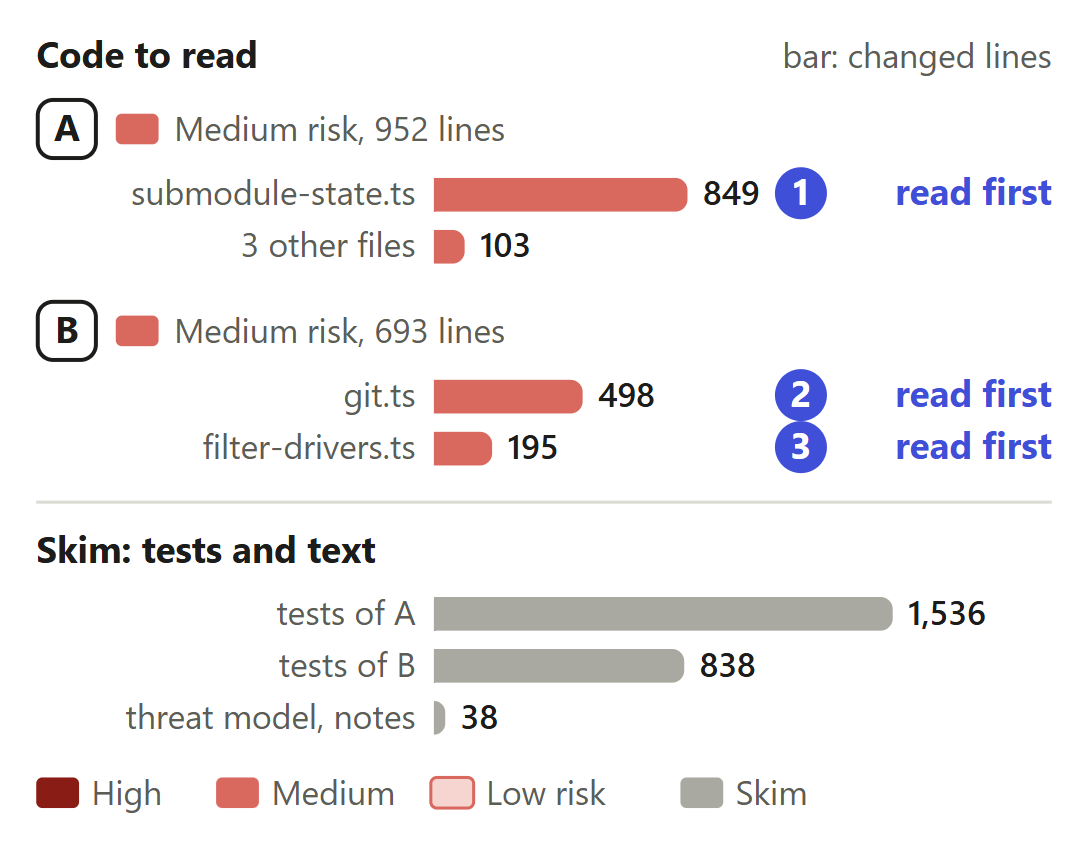
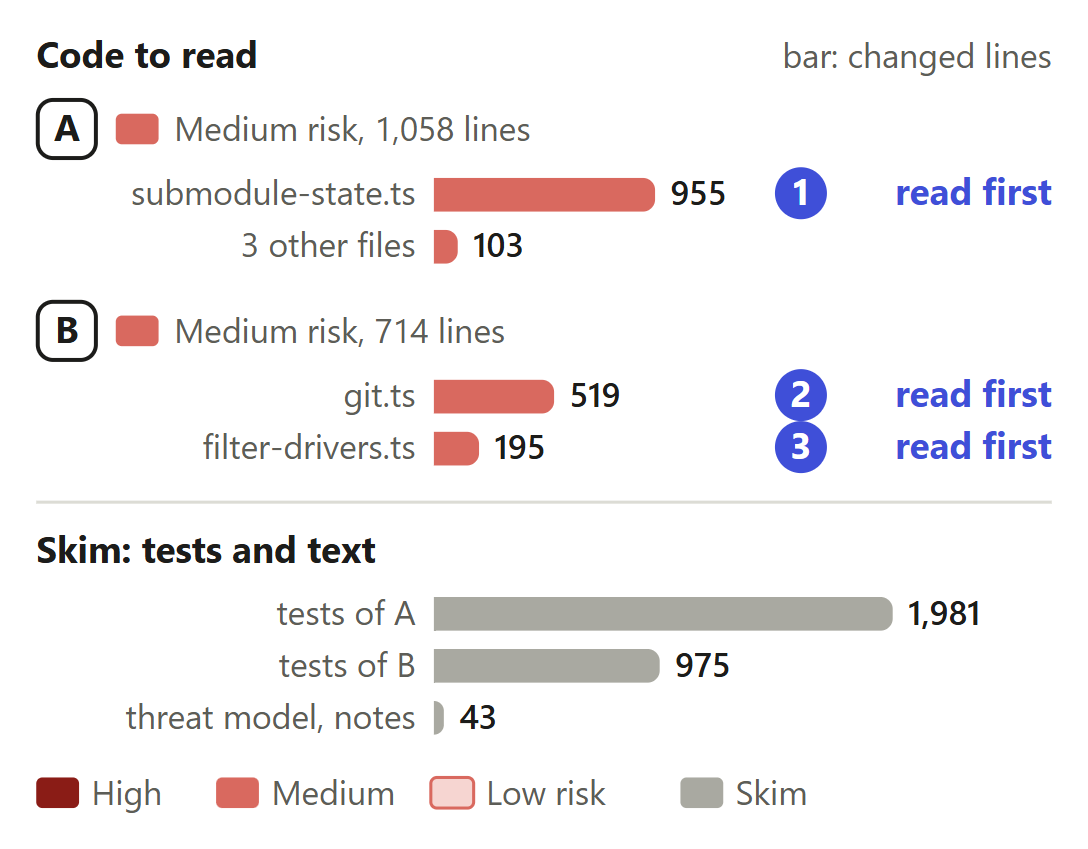
Decision report for #978 (JeanFrancoisGagne/git-calls-run-no-repository-program)
git-calls-run-no-repository-program/ holds what the pull request's callout links: README.md, the report in GitHub Markdown; report.html, the self-standing page; and 2 image(s).

diff --git a/git-calls-run-no-repository-program/report.html b/git-calls-run-no-repository-program/report.html
@@ -319,9 +319,9 @@ td .src { display: block; font-size: 13px; color: var(--muted); margin-top: 3px;
   <ol><li><svg class="fl" viewBox="0 0 14 16" aria-hidden="true"><path d="M2 1v14M2 1h10l-3 4l3 4h-10"/></svg>A file only its repository&#x27;s driver maps is compared as it is on disk.</li></ol></div>
   <p class="rec"><b>We recommend:</b> approve it: at main five calls started a program a repository&#x27;s config names, here none does; the person&#x27;s drivers run, and a call starts the Gits main&#x27;s starts, plus three where the checkout records submodules.</p>
   <div class="big">
-    <div><b class="w">4,057 lines</b><span>in 23 files. 1,645 ship, 2,412 are tests and text.</span></div><div><b class="w">Maintainer approves review</b><span>It changes what Rerail&#x27;s own Git calls start.</span></div><div><b class="w">Waits on nothing</b><span>It stands on main alone.</span></div><div><b class="w">4 not verified</b><span><a href="#gaps">Part 8</a> lists each.</span></div>
+    <div><b class="w">4,771 lines</b><span>in 24 files. 1,772 ship, 2,999 are tests and text.</span></div><div><b class="w">Maintainer approves review</b><span>It changes what Rerail&#x27;s own Git calls start.</span></div><div><b class="w">Waits on nothing</b><span>It stands on main alone.</span></div><div><b class="w">4 not verified</b><span><a href="#gaps">Part 8</a> lists each.</span></div>
   </div>
-  <p class="state">Read from <a href="https://github.com/neralabs/rerail/pull/978">GitHub</a> on 21 November 2026, at head f1a6d791b.</p>
+  <p class="state">Read from <a href="https://github.com/neralabs/rerail/pull/978">GitHub</a> on 21 November 2026, at head bbcdd72d8.</p>
 </header>
 <section id="intent"><h2>2. Intent, and the gap</h2>
 <figure class="fg flat"><table class="tc it"><colgroup><col style="width:15%"><col style="width:25%"><col style="width:29%"><col style="width:31%"></colgroup><thead><tr><th>Change</th><th>Intended</th><th>Found</th><th>Now</th></tr></thead><tbody><tr><td class="k"><span class="lb">A</span><b>Submodule programs</b></td><td class="in" data-l="Intended">Rerail&#x27;s Git calls keep a repository&#x27;s config from running programs: &quot;no fsmonitor, no hooks&quot;. <span class="tagx">code comment</span></td><td class="fo" data-l="Found">A checked-out submodule&#x27;s own filter ran through Git&#x27;s status in it: 3 runs from one audit and one scan diff. <span class="tagx">stand-in program</span></td><td class="now" data-l="Now"><b>Closes the gap</b> and keeps Git out of submodules, asking each through the same guard.</td></tr><tr><td class="k"><span class="lb">B</span><b>Repository filters</b></td><td class="in" data-l="Intended">Rerail&#x27;s Git calls keep a repository&#x27;s config from running programs: &quot;no fsmonitor, no hooks&quot;. <span class="tagx">code comment</span></td><td class="fo" data-l="Found">A tracked file rewritten at the same size ran the repository&#x27;s clean filter: 5 runs from an audit, a scan and a walk. <span class="tagx">stand-in program</span></td><td class="now" data-l="Now"><svg class="fl" viewBox="0 0 14 16" aria-hidden="true"><path d="M2 1v14M2 1h10l-3 4l3 4h-10"/></svg><b>Closes the gap, changes answer 1.</b> and sets each driver only a repository defines to no program; the person&#x27;s own drivers still run.</td></tr></tbody></table>
@@ -329,15 +329,15 @@ td .src { display: block; font-size: 13px; color: var(--muted); margin-top: 3px;
 <details class="ev"><summary>Sources at main, and causes</summary><div class="table-wrap"><table class="tc tight"><colgroup><col style="width:16%"><col style="width:42%"><col style="width:42%"></colgroup><thead><tr><th>Change</th><th>Where main states the intent</th><th>The cause, and what was measured</th></tr></thead><tbody><tr><td class="k">A. Submodule programs</td><td data-l="Where main states the intent"><code>src/engine/git.ts</code> at main, above <code>SAFE_CONFIG</code>: &quot;A repository&#x27;s own config can&#x27;t run programs through Rerail&#x27;s git calls: no fsmonitor, no hooks.&quot;</td><td data-l="The cause, and what was measured">Git&#x27;s diff starts <code>git status --porcelain=2</code> in each checked-out submodule to tell whether it changed. That status reads the submodule&#x27;s own config with none of the call&#x27;s options on it, so its filter ran; a Git folder placed at a registered submodule&#x27;s path ran its program the same way.</td></tr><tr><td class="k">B. Repository filters</td><td data-l="Where main states the intent"><code>src/engine/git.ts</code> at main, above <code>SAFE_CONFIG</code>: &quot;A repository&#x27;s own config can&#x27;t run programs through Rerail&#x27;s git calls: no fsmonitor, no hooks.&quot;</td><td data-l="The cause, and what was measured"><code>git diff --name-only</code> and <code>git ls-files --modified</code> compare a file whose size matches its index entry and whose stat does not through <code>filter.&lt;name&gt;.clean</code>. The calls set no filter key, so the program the repository&#x27;s config names ran as the person.</td></tr></tbody></table></div></details>
 </section><section id="look"><h2>3. Where to look</h2>
 <p class="sub">Minutes are our estimate.</p>
-<div class="duo"><figure class="fg"><svg viewBox="0 0 340 262" role="img" aria-label="The changed files as bars sized by changed lines, grouped by change and coloured by risk. Code to read: A, Submodules asked through the guard, medium risk, 952 lines; B, Drivers set for each call, medium risk, 693 lines. Read first: submodule-state.ts, git.ts, filter-drivers.ts. To skim: 2,374 lines of tests and 38 lines of the threat model and a release note." class="dg map"><text x="4" y="14" class="t b">Code to read</text><text x="336" y="14" text-anchor="end" class="t s">bar: changed lines</text><rect x="4.5" y="24.5" width="19" height="19" rx="5" class="lt"/><text x="14" y="38" text-anchor="middle" class="t b">A</text><rect x="30" y="29" width="14" height="10" rx="2" class="rk med"/><text x="49" y="38" class="t s">Medium risk, 952 lines</text><text x="128" y="59" text-anchor="end" class="t s">submodule-state.ts</text><g><title>submodule-state.ts: 849 changed lines, medium risk</title><path d="M134 50h78.9102a4 4 0 0 1 4 4v3a4 4 0 0 1 -4 4h-78.9102z" class="rk med"/></g><text x="221.91" y="59" class="t n">849</text><text x="336" y="59" text-anchor="end" class="t b acc">read first</text><circle cx="254" cy="55" r="8.5" class="nc"/><text x="254" y="59" text-anchor="middle" class="t b inv">1</text><text x="128" y="76" text-anchor="end" class="t s">3 other files</text><g><title>3 other files: 103 changed lines, medium risk</title><path d="M134 67h6.05859a4 4 0 0 1 4 4v3a4 4 0 0 1 -4 4h-6.05859z" class="rk med"/></g><text x="149.059" y="76" class="t n">103</text><rect x="4.5" y="90.5" width="19" height="19" rx="5" class="lt"/><text x="14" y="104" text-anchor="middle" class="t b">B</text><rect x="30" y="95" width="14" height="10" rx="2" class="rk med"/><text x="49" y="104" class="t s">Medium risk, 693 lines</text><text x="128" y="125" text-anchor="end" class="t s">git.ts</text><g><title>git.ts: 498 changed lines, medium risk</title><path d="M134 116h44.6328a4 4 0 0 1 4 4v3a4 4 0 0 1 -4 4h-44.6328z" class="rk med"/></g><text x="187.633" y="125" class="t n">498</text><text x="336" y="125" text-anchor="end" class="t b acc">read first</text><circle cx="254" cy="121" r="8.5" class="nc"/><text x="254" y="125" text-anchor="middle" class="t b inv">2</text><text x="128" y="142" text-anchor="end" class="t s">filter-drivers.ts</text><g><title>filter-drivers.ts: 195 changed lines, medium risk</title><path d="M134 133h15.043a4 4 0 0 1 4 4v3a4 4 0 0 1 -4 4h-15.043z" class="rk med"/></g><text x="158.043" y="142" class="t n">195</text><text x="336" y="142" text-anchor="end" class="t b acc">read first</text><circle cx="254" cy="138" r="8.5" class="nc"/><text x="254" y="142" text-anchor="middle" class="t b inv">3</text><line x1="4" y1="156" x2="336" y2="156" class="ar thin"/><text x="4" y="176" class="t b">Skim: tests and text</text><text x="128" y="196" text-anchor="end" class="t s">tests of A</text><g><title>Tests of change A: 1,536 changed lines, skim</title><path d="M134 187h146a4 4 0 0 1 4 4v3a4 4 0 0 1 -4 4h-146z" class="rk skim"/></g><text x="289" y="196" class="t n">1,536</text><text x="128" y="213" text-anchor="end" class="t s">tests of B</text><g><title>Tests of change B: 838 changed lines, skim</title><path d="M134 204h77.8359a4 4 0 0 1 4 4v3a4 4 0 0 1 -4 4h-77.8359z" class="rk skim"/></g><text x="220.836" y="213" class="t n">838</text><text x="128" y="230" text-anchor="end" class="t s">threat model, notes</text><g><title>The threat model and a release note: 38 lines</title><path d="M134 221h0a3.71094 3.71094 0 0 1 3.71094 3.71094v3.57812a3.71094 3.71094 0 0 1 -3.71094 3.71094h-0z" class="rk skim"/></g><text x="142.711" y="230" class="t n">38</text><rect x="4" y="246" width="14" height="10" rx="2" class="rk high"/><text x="22" y="255" class="t s">High</text><rect x="62.8" y="246" width="14" height="10" rx="2" class="rk med"/><text x="80.8" y="255" class="t s">Medium</text><rect x="133" y="246" width="14" height="10" rx="2" class="rk low"/><text x="151" y="255" class="t s">Low risk</text><rect x="214.6" y="246" width="14" height="10" rx="2" class="rk skim"/><text x="232.6" y="255" class="t s">Skim</text></svg>
+<div class="duo"><figure class="fg"><svg viewBox="0 0 340 262" role="img" aria-label="The changed files as bars sized by changed lines, grouped by change and coloured by risk. Code to read: A, Submodules asked through the guard, medium risk, 1,058 lines; B, Drivers set for each call, medium risk, 714 lines. Read first: submodule-state.ts, git.ts, filter-drivers.ts. To skim: 2,956 lines of tests and 43 lines of the threat model and a release note." class="dg map"><text x="4" y="14" class="t b">Code to read</text><text x="336" y="14" text-anchor="end" class="t s">bar: changed lines</text><rect x="4.5" y="24.5" width="19" height="19" rx="5" class="lt"/><text x="14" y="38" text-anchor="middle" class="t b">A</text><rect x="30" y="29" width="14" height="10" rx="2" class="rk med"/><text x="49" y="38" class="t s">Medium risk, 1,058 lines</text><text x="128" y="59" text-anchor="end" class="t s">submodule-state.ts</text><g><title>submodule-state.ts: 955 changed lines, medium risk</title><path d="M134 50h68.312a4 4 0 0 1 4 4v3a4 4 0 0 1 -4 4h-68.312z" class="rk med"/></g><text x="211.312" y="59" class="t n">955</text><text x="336" y="59" text-anchor="end" class="t b acc">read first</text><circle cx="254" cy="55" r="8.5" class="nc"/><text x="254" y="59" text-anchor="middle" class="t b inv">1</text><text x="128" y="76" text-anchor="end" class="t s">3 other files</text><g><title>3 other files: 103 changed lines, medium risk</title><path d="M134 67h3.79909a4 4 0 0 1 4 4v3a4 4 0 0 1 -4 4h-3.79909z" class="rk med"/></g><text x="146.799" y="76" class="t n">103</text><rect x="4.5" y="90.5" width="19" height="19" rx="5" class="lt"/><text x="14" y="104" text-anchor="middle" class="t b">B</text><rect x="30" y="95" width="14" height="10" rx="2" class="rk med"/><text x="49" y="104" class="t s">Medium risk, 714 lines</text><text x="128" y="125" text-anchor="end" class="t s">git.ts</text><g><title>git.ts: 519 changed lines, medium risk</title><path d="M134 116h35.2983a4 4 0 0 1 4 4v3a4 4 0 0 1 -4 4h-35.2983z" class="rk med"/></g><text x="178.298" y="125" class="t n">519</text><text x="336" y="125" text-anchor="end" class="t b acc">read first</text><circle cx="254" cy="121" r="8.5" class="nc"/><text x="254" y="125" text-anchor="middle" class="t b inv">2</text><text x="128" y="142" text-anchor="end" class="t s">filter-drivers.ts</text><g><title>filter-drivers.ts: 195 changed lines, medium risk</title><path d="M134 133h10.7653a4 4 0 0 1 4 4v3a4 4 0 0 1 -4 4h-10.7653z" class="rk med"/></g><text x="153.765" y="142" class="t n">195</text><text x="336" y="142" text-anchor="end" class="t b acc">read first</text><circle cx="254" cy="138" r="8.5" class="nc"/><text x="254" y="142" text-anchor="middle" class="t b inv">3</text><line x1="4" y1="156" x2="336" y2="156" class="ar thin"/><text x="4" y="176" class="t b">Skim: tests and text</text><text x="128" y="196" text-anchor="end" class="t s">tests of A</text><g><title>Tests of change A: 1,981 changed lines, skim</title><path d="M134 187h146a4 4 0 0 1 4 4v3a4 4 0 0 1 -4 4h-146z" class="rk skim"/></g><text x="289" y="196" class="t n">1,981</text><text x="128" y="213" text-anchor="end" class="t s">tests of B</text><g><title>Tests of change B: 975 changed lines, skim</title><path d="M134 204h69.8264a4 4 0 0 1 4 4v3a4 4 0 0 1 -4 4h-69.8264z" class="rk skim"/></g><text x="212.826" y="213" class="t n">975</text><text x="128" y="230" text-anchor="end" class="t s">threat model, notes</text><g><title>The threat model and a release note: 43 lines</title><path d="M134 221h0a3.25593 3.25593 0 0 1 3.25593 3.25593v4.48814a3.25593 3.25593 0 0 1 -3.25593 3.25593h-0z" class="rk skim"/></g><text x="142.256" y="230" class="t n">43</text><rect x="4" y="246" width="14" height="10" rx="2" class="rk high"/><text x="22" y="255" class="t s">High</text><rect x="62.8" y="246" width="14" height="10" rx="2" class="rk med"/><text x="80.8" y="255" class="t s">Medium</text><rect x="133" y="246" width="14" height="10" rx="2" class="rk low"/><text x="151" y="255" class="t s">Low risk</text><rect x="214.6" y="246" width="14" height="10" rx="2" class="rk skim"/><text x="232.6" y="255" class="t s">Skim</text></svg>
 <figcaption>Most lines are Git&#x27;s submodule rules and the guard around each call.</figcaption></figure>
 <div><ol class="steps"><li class="first"><div><span class="rf">Read first</span><b><code>submodule-state.ts</code>: <code>withChangedSubmodules</code>, <code>submoduleChanged</code>, <code>worktreeIndex</code></b><span class="min">15 min</span><span class="x">Does each diff list the submodules Git&#x27;s own diff lists?</span></div></li><li class="first"><div><span class="rf">Read first</span><b><code>git.ts</code>: <code>runGit</code>, <code>runGitWithoutBlocking</code>, <code>guardedBy</code>, <code>submoduleOpener</code></b><span class="min">15 min</span><span class="x">Can a call that reads worktree files still start a repository&#x27;s driver?</span></div></li><li class="first"><div><span class="rf">Read first</span><b><code>filter-drivers.ts</code>: <code>driverOverrides</code>, <code>worktreeRead</code></b><span class="min">5 min</span><span class="x">Does every driver a repository defines get the person&#x27;s value or none?</span></div></li><li><div><b><code>audit-control.ts</code>, <code>headless-scan.ts</code>, <code>operations.ts</code>: the callers await the diff</b><span class="min">5 min</span></div></li></ol>
 <div class="skim"><i></i><div><span class="rf">Then skim</span><b>Tests and text</b><span class="min">10 min</span><span class="x">The differential cases compare each answer with Git&#x27;s own; the threat model says what the calls keep from a repository&#x27;s config.</span></div></div>
 </div></div>
 </section><section id="grid"><h2>4. Risk against verification</h2>
-<figure class="fg"><svg viewBox="0 0 340 191" role="img" aria-label="The changes by risk, high on top, against six checks. A, Submodules, medium risk: users lose nothing holds with a limit. B, Drivers, medium risk: users lose nothing holds with a limit, Windows 11: no new failure holds with a limit. CI at this head does not hold yet for every change." class="dg grid"><text x="150" y="13" text-anchor="middle" class="t b">1</text><text x="184" y="13" text-anchor="middle" class="t b">2</text><text x="218" y="13" text-anchor="middle" class="t b">3</text><text x="252" y="13" text-anchor="middle" class="t b">4</text><text x="286" y="13" text-anchor="middle" class="t b">5</text><text x="320" y="13" text-anchor="middle" class="t b">6</text><rect x="1" y="20" width="338" height="82" rx="8" class="bx zone"/><rect x="9" y="25" width="14" height="10" rx="2" class="rk med"/><text x="28" y="34" class="t s b">Medium risk</text><rect x="8.5" y="42.5" width="19" height="19" rx="5" class="lt"/><text x="18" y="56" text-anchor="middle" class="t b">A</text><text x="34" y="56" class="t b">Submodules</text><g><title>Submodules, fails without the fix: At main a checked-out submodule&#x27;s own filter ran 3 times and a placed Git folder&#x27;s 3 times, on Linux x64 and Windows 11; here 0. The last round&#x27;s 13 new cases fail at the commit before.</title><circle cx="150" cy="52" r="8" class="mh"/><path d="M146 52l3 3l5 -6" class="mt"/></g><g><title>Submodules, independent review: Our own independent review found one blocker and six follow-ups; each has a case that fails without its fix.</title><circle cx="184" cy="52" r="8" class="mh"/><path d="M180 52l3 3l5 -6" class="mt"/></g><g><title>Submodules, users lose nothing: Layouts under eleven rule sets equal Git&#x27;s own stdout byte for byte. A checkout of more than about four million files that records a submodule fails where main answered.</title><circle cx="218" cy="52" r="7.4" class="ml"/><path d="M218 44.6A7.4 7.4 0 0 0 218 59.4Z" class="mlf"/></g><g><title>Submodules, rules scan: nothing new: No new finding in the touched files, with the published Rerail and with Rerail built from main; no function over complexity 6.</title><circle cx="252" cy="52" r="8" class="mh"/><path d="M248 52l3 3l5 -6" class="mt"/></g><g><title>Submodules, Windows 11: no new failure: The 29 test files importing a module this round changed pass on Windows 11 with the engine built for this tree, each failure beside other runs passing run again.</title><circle cx="286" cy="52" r="8" class="mh"/><path d="M282 52l3 3l5 -6" class="mt"/></g><g><title>Submodules, CI at this head: CI runs once the branch is on GitHub.</title><circle cx="320" cy="52" r="7.4" class="mo"/></g><line x1="8" y1="68" x2="332" y2="68" class="ar thin"/><rect x="8.5" y="74.5" width="19" height="19" rx="5" class="lt"/><text x="18" y="88" text-anchor="middle" class="t b">B</text><text x="34" y="88" class="t b">Drivers</text><g><title>Drivers, fails without the fix: At main a tracked file rewritten at the same size ran the repository&#x27;s clean filter 5 times, and a signed reflog its signing program once; here 0, on Linux x64 and Windows 11.</title><circle cx="150" cy="84" r="8" class="mh"/><path d="M146 84l3 3l5 -6" class="mt"/></g><g><title>Drivers, independent review: Our own independent review asked for a Git&#x27;s version kept per Git and a cap under Node&#x27;s longest string; both have cases that fail without them.</title><circle cx="184" cy="84" r="8" class="mh"/><path d="M180 84l3 3l5 -6" class="mt"/></g><g><title>Drivers, users lose nothing: A file under a driver only the repository defines is listed as changed when only its stat changed.</title><circle cx="218" cy="84" r="7.4" class="ml"/><path d="M218 76.6A7.4 7.4 0 0 0 218 91.4Z" class="mlf"/></g><g><title>Drivers, rules scan: nothing new: No new finding in the touched files, with the published Rerail and with Rerail built from main.</title><circle cx="252" cy="84" r="8" class="mh"/><path d="M248 84l3 3l5 -6" class="mt"/></g><g><title>Drivers, Windows 11: no new failure: The test files pass on Windows 11; the cases with a stand-in Git run on Linux only.</title><circle cx="286" cy="84" r="7.4" class="ml"/><path d="M286 76.6A7.4 7.4 0 0 0 286 91.4Z" class="mlf"/></g><g><title>Drivers, CI at this head: CI runs once the branch is on GitHub.</title><circle cx="320" cy="84" r="7.4" class="mo"/></g><text x="8" y="121" class="t s">1  fails without the fix</text><text x="168" y="121" class="t s">2  independent review</text><text x="8" y="137" class="t s">3  users lose nothing</text><text x="168" y="137" class="t s">4  rules scan: nothing new</text><text x="8" y="153" class="t s">5  Windows 11: no new failure</text><text x="168" y="153" class="t s">6  CI at this head</text><g><title>holds</title><circle cx="14" cy="177" r="8" class="mh"/><path d="M10 177l3 3l5 -6" class="mt"/></g><text x="28" y="181" class="t s">holds</text><g><title>holds with a limit</title><circle cx="92" cy="177" r="7.4" class="ml"/><path d="M92 169.6A7.4 7.4 0 0 0 92 184.4Z" class="mlf"/></g><text x="106" y="181" class="t s">holds with a limit</text><g><title>does not hold yet</title><circle cx="244.1" cy="177" r="7.4" class="mo"/></g><text x="258.1" y="181" class="t s">not yet</text></svg>
+<figure class="fg"><svg viewBox="0 0 340 191" role="img" aria-label="The changes by risk, high on top, against six checks. A, Submodules, medium risk: users lose nothing holds with a limit. B, Drivers, medium risk: users lose nothing holds with a limit, Windows 11: no new failure holds with a limit. CI at this head does not hold yet for every change." class="dg grid"><text x="150" y="13" text-anchor="middle" class="t b">1</text><text x="184" y="13" text-anchor="middle" class="t b">2</text><text x="218" y="13" text-anchor="middle" class="t b">3</text><text x="252" y="13" text-anchor="middle" class="t b">4</text><text x="286" y="13" text-anchor="middle" class="t b">5</text><text x="320" y="13" text-anchor="middle" class="t b">6</text><rect x="1" y="20" width="338" height="82" rx="8" class="bx zone"/><rect x="9" y="25" width="14" height="10" rx="2" class="rk med"/><text x="28" y="34" class="t s b">Medium risk</text><rect x="8.5" y="42.5" width="19" height="19" rx="5" class="lt"/><text x="18" y="56" text-anchor="middle" class="t b">A</text><text x="34" y="56" class="t b">Submodules</text><g><title>Submodules, fails without the fix: At main a checked-out submodule&#x27;s own filter ran 3 times and a placed Git folder&#x27;s 3 times, on Linux x64 and Windows 11; here 0. The last round&#x27;s 13 new cases fail at the commit before.</title><circle cx="150" cy="52" r="8" class="mh"/><path d="M146 52l3 3l5 -6" class="mt"/></g><g><title>Submodules, independent review: Our own independent review found one blocker and six follow-ups; each has a case that fails without its fix.</title><circle cx="184" cy="52" r="8" class="mh"/><path d="M180 52l3 3l5 -6" class="mt"/></g><g><title>Submodules, users lose nothing: Layouts under eighteen rule sets equal Git&#x27;s own stdout byte for byte. A checkout of more than about four million files that records a submodule fails where main answered.</title><circle cx="218" cy="52" r="7.4" class="ml"/><path d="M218 44.6A7.4 7.4 0 0 0 218 59.4Z" class="mlf"/></g><g><title>Submodules, rules scan: nothing new: No new finding in the touched files, with the published Rerail and with Rerail built from main; no function over complexity 6.</title><circle cx="252" cy="52" r="8" class="mh"/><path d="M248 52l3 3l5 -6" class="mt"/></g><g><title>Submodules, Windows 11: no new failure: The guard&#x27;s four test files pass at this head on Linux x64 and on Windows 11 with the engine built for this tree; the 28 importing a module the first review&#x27;s answer changed passed at the head before.</title><circle cx="286" cy="52" r="8" class="mh"/><path d="M282 52l3 3l5 -6" class="mt"/></g><g><title>Submodules, CI at this head: CI runs once the branch is on GitHub.</title><circle cx="320" cy="52" r="7.4" class="mo"/></g><line x1="8" y1="68" x2="332" y2="68" class="ar thin"/><rect x="8.5" y="74.5" width="19" height="19" rx="5" class="lt"/><text x="18" y="88" text-anchor="middle" class="t b">B</text><text x="34" y="88" class="t b">Drivers</text><g><title>Drivers, fails without the fix: At main a tracked file rewritten at the same size ran the repository&#x27;s clean filter 5 times, and a signed reflog its signing program once; here 0, on Linux x64 and Windows 11.</title><circle cx="150" cy="84" r="8" class="mh"/><path d="M146 84l3 3l5 -6" class="mt"/></g><g><title>Drivers, independent review: Our own independent review asked for a Git&#x27;s version kept per Git and a cap under Node&#x27;s longest string; both have cases that fail without them.</title><circle cx="184" cy="84" r="8" class="mh"/><path d="M180 84l3 3l5 -6" class="mt"/></g><g><title>Drivers, users lose nothing: A file under a driver only the repository defines is listed as changed when only its stat changed.</title><circle cx="218" cy="84" r="7.4" class="ml"/><path d="M218 76.6A7.4 7.4 0 0 0 218 91.4Z" class="mlf"/></g><g><title>Drivers, rules scan: nothing new: No new finding in the touched files, with the published Rerail and with Rerail built from main.</title><circle cx="252" cy="84" r="8" class="mh"/><path d="M248 84l3 3l5 -6" class="mt"/></g><g><title>Drivers, Windows 11: no new failure: The test files pass on Windows 11; the cases with a stand-in Git run on Linux only.</title><circle cx="286" cy="84" r="7.4" class="ml"/><path d="M286 76.6A7.4 7.4 0 0 0 286 91.4Z" class="mlf"/></g><g><title>Drivers, CI at this head: CI runs once the branch is on GitHub.</title><circle cx="320" cy="84" r="7.4" class="mo"/></g><text x="8" y="121" class="t s">1  fails without the fix</text><text x="168" y="121" class="t s">2  independent review</text><text x="8" y="137" class="t s">3  users lose nothing</text><text x="168" y="137" class="t s">4  rules scan: nothing new</text><text x="8" y="153" class="t s">5  Windows 11: no new failure</text><text x="168" y="153" class="t s">6  CI at this head</text><g><title>holds</title><circle cx="14" cy="177" r="8" class="mh"/><path d="M10 177l3 3l5 -6" class="mt"/></g><text x="28" y="181" class="t s">holds</text><g><title>holds with a limit</title><circle cx="92" cy="177" r="7.4" class="ml"/><path d="M92 169.6A7.4 7.4 0 0 0 92 184.4Z" class="mlf"/></g><text x="106" y="181" class="t s">holds with a limit</text><g><title>does not hold yet</title><circle cx="244.1" cy="177" r="7.4" class="mo"/></g><text x="258.1" y="181" class="t s">not yet</text></svg>
 <figcaption>Start with the submodule rules: they follow Git&#x27;s own and are where a wrong answer lists or drops a path.</figcaption></figure>
-<details class="ev"><summary>Each limit, and each check that does not hold yet</summary><div class="table-wrap"><table class="tc tight"><colgroup><col style="width:18%"><col style="width:22%"><col style="width:60%"></colgroup><thead><tr><th>Change</th><th>Check</th><th>Its limit, or why it does not hold yet</th></tr></thead><tbody><tr><td class="k">A. Submodules</td><td data-l="Check">users lose nothing</td><td data-l="Its limit, or why it does not hold yet">Layouts under eleven rule sets equal Git&#x27;s own stdout byte for byte. A checkout of more than about four million files that records a submodule fails where main answered.</td></tr><tr><td class="k">B. Drivers</td><td data-l="Check">users lose nothing</td><td data-l="Its limit, or why it does not hold yet">A file under a driver only the repository defines is listed as changed when only its stat changed.</td></tr><tr><td class="k">B. Drivers</td><td data-l="Check">Windows 11: no new failure</td><td data-l="Its limit, or why it does not hold yet">The test files pass on Windows 11; the cases with a stand-in Git run on Linux only.</td></tr><tr><td class="k">A and B</td><td data-l="Check">CI at this head</td><td data-l="Its limit, or why it does not hold yet">CI runs once the branch is on GitHub.</td></tr></tbody></table></div></details>
+<details class="ev"><summary>Each limit, and each check that does not hold yet</summary><div class="table-wrap"><table class="tc tight"><colgroup><col style="width:18%"><col style="width:22%"><col style="width:60%"></colgroup><thead><tr><th>Change</th><th>Check</th><th>Its limit, or why it does not hold yet</th></tr></thead><tbody><tr><td class="k">A. Submodules</td><td data-l="Check">users lose nothing</td><td data-l="Its limit, or why it does not hold yet">Layouts under eighteen rule sets equal Git&#x27;s own stdout byte for byte. A checkout of more than about four million files that records a submodule fails where main answered.</td></tr><tr><td class="k">B. Drivers</td><td data-l="Check">users lose nothing</td><td data-l="Its limit, or why it does not hold yet">A file under a driver only the repository defines is listed as changed when only its stat changed.</td></tr><tr><td class="k">B. Drivers</td><td data-l="Check">Windows 11: no new failure</td><td data-l="Its limit, or why it does not hold yet">The test files pass on Windows 11; the cases with a stand-in Git run on Linux only.</td></tr><tr><td class="k">A and B</td><td data-l="Check">CI at this head</td><td data-l="Its limit, or why it does not hold yet">CI runs once the branch is on GitHub.</td></tr></tbody></table></div></details>
 </section><section id="changes"><h2>5. The changes</h2>
 <p class="sub">Each line opens its card.</p>
 <details class="card"><summary><span class="lb">A</span><b>Submodules asked through the guard</b><span class="chip medium"><i></i>Medium risk</span><span class="sx">450 submodules, Windows 11 running nothing else: audit 3.5 s here, 5.4 s at main, every call answered.</span></summary>
@@ -365,7 +365,7 @@ td .src { display: block; font-size: 13px; color: var(--muted); margin-top: 3px;
 <p><b>Would change our mind:</b> a checkout with so many submodules that main answers and this does not.</p>
 <details class="ev"><summary>Options and evidence</summary><div class="table-wrap"><table class="tc tight"><colgroup><col style="width:28%"><col style="width:22%"><col style="width:22%"><col style="width:28%"></colgroup><thead><tr><th>Option</th><th>What a user gets</th><th>Cost</th><th>What it breaks</th></tr></thead><tbody><tr><td class="k">One Git a submodule where its config and index allow, all at once <span class='tag new'>chosen</span></td><td data-l="What a user gets">With 450 submodules every call answers on a Windows 11 VM running nothing else, in 3.5 s where main takes 5.4 s.</td><td data-l="Cost">460 Git starts for an audit at 450, against 457 at main.</td><td data-l="What it breaks">Nothing main gives, measured.</td></tr><tr><td class="k">One Git for all, with the guard&#x27;s options</td><td data-l="What a user gets">Main&#x27;s cost.</td><td data-l="Cost">As main.</td><td data-l="What it breaks">The options name only the checkout&#x27;s drivers, so a submodule&#x27;s own driver and a placed Git folder run their programs.</td></tr></tbody></table></div><p><b>Evidence.</b> At 0, 80, 200 and 450 submodules, 5 calls each on a Windows 11 virtual machine and Linux x64, beside main on the same machine: every call answered with Git&#x27;s own paths.</p></details></div>
 </section><section id="fits"><h2>7. How it fits</h2>
-<div class="duo"><figure class="fg"><svg viewBox="0 0 340 216" role="img" aria-label="The change is based on main at 1e80e3b04, merged in with no conflict. A trial merge with the open pull request #964 conflicts in two import lines, and whichever lands second keeps both." class="dg fit"><rect x="4" y="4" width="332" height="50" rx="8" class="bx good"/><text x="14" y="23" class="t b">main at 1e80e3b04</text><text x="14" y="38" class="t s">merged in, no conflict</text><line x1="170" y1="55" x2="170" y2="79" class="ar " marker-end="url(#ah)"/><text x="176" y="71" class="t s">based on</text><rect x="4" y="80" width="332" height="46" rx="8" class="bx acc"/><text x="170" y="100" text-anchor="middle" class="t b">Git calls start no program</text><text x="170" y="116" text-anchor="middle" class="t s">two changes</text><text x="4" y="146" class="t b">Trial merges with open work</text><rect x="4" y="154" width="108" height="58" rx="8" class="bx warn"/><text x="12" y="171" class="t b">#964</text><text x="12" y="187" class="t s">2 import lines:</text><text x="12" y="201" class="t s">keep both</text></svg></figure>
+<div class="duo"><figure class="fg"><svg viewBox="0 0 340 216" role="img" aria-label="The change is based on main at 1609ac3a3, merged in with no conflict. A trial merge with the open pull request #964 conflicts in two import lines, and whichever lands second keeps both." class="dg fit"><rect x="4" y="4" width="332" height="50" rx="8" class="bx good"/><text x="14" y="23" class="t b">main at 1609ac3a3</text><text x="14" y="38" class="t s">merged in, no conflict</text><line x1="170" y1="55" x2="170" y2="79" class="ar " marker-end="url(#ah)"/><text x="176" y="71" class="t s">based on</text><rect x="4" y="80" width="332" height="46" rx="8" class="bx acc"/><text x="170" y="100" text-anchor="middle" class="t b">Git calls start no program</text><text x="170" y="116" text-anchor="middle" class="t s">two changes</text><text x="4" y="146" class="t b">Trial merges with open work</text><rect x="4" y="154" width="108" height="58" rx="8" class="bx warn"/><text x="12" y="171" class="t b">#964</text><text x="12" y="187" class="t s">2 import lines:</text><text x="12" y="201" class="t s">keep both</text></svg></figure>
 <div><p>Nothing has to merge first. It meets #964 in two import lines; whichever lands second keeps both.</p>
 <details class="ev"><summary>The shared lines and the trial merge</summary><p>A trial merge with #964 conflicts in line 3 of <code>integration/rerail-without-daemon.test.ts</code>, the <code>node:fs/promises</code> names, and line 10 of <code>src/engine/audit/audit-control.ts</code>, the imports beside <code>../git.js</code>. No other open pull request of ours touches these files.</p></details>
 </div></div>
@@ -390,7 +390,7 @@ td .src { display: block; font-size: 13px; color: var(--muted); margin-top: 3px;
 </ol>
 </section><section id="evidence"><h2>10. Evidence</h2>
 <p>The description on GitHub is the record: &quot;How you tested it&quot; holds the failing runs, the figures and the test files.</p>
-<details class="ev"><summary>Runs at this head</summary><div class="table-wrap"><table class="tc tight"><colgroup><col style="width:16%"><col style="width:40%"><col style="width:44%"></colgroup><thead><tr><th>Where</th><th>What ran</th><th>Result</th></tr></thead><tbody><tr><td class="k">Linux x64</td><td data-l="What ran">The five calls, at main and here</td><td data-l="Result">All five fail at main and pass here.</td></tr><tr><td class="k">Windows 11</td><td data-l="What ran">The five calls, at main and here</td><td data-l="Result">All five fail at main and pass here.</td></tr><tr><td class="k">Linux x64</td><td data-l="What ran">29 test files importing a changed module</td><td data-l="Result">1,216 passed, 31 skipped; main&#x27;s 37 files passed.</td></tr><tr><td class="k">Windows 11</td><td data-l="What ran">The same 40 files</td><td data-l="Result">1,184 passed, 65 skipped, 3 failed beside other runs and passed run again at main and here, with the engine built for this tree.</td></tr><tr><td class="k">Linux x64</td><td data-l="What ran">Each new line changed, 19 runs</td><td data-l="Result">With nothing changed the files pass; each of the 18 changes fails a case.</td></tr></tbody></table></div></details>
+<details class="ev"><summary>Runs at this head</summary><div class="table-wrap"><table class="tc tight"><colgroup><col style="width:16%"><col style="width:40%"><col style="width:44%"></colgroup><thead><tr><th>Where</th><th>What ran</th><th>Result</th></tr></thead><tbody><tr><td class="k">Linux x64</td><td data-l="What ran">The five calls, at main and here</td><td data-l="Result">All five fail at main and pass here.</td></tr><tr><td class="k">Windows 11</td><td data-l="What ran">The five calls, at main and here</td><td data-l="Result">All five fail at main and pass here.</td></tr><tr><td class="k">Linux x64</td><td data-l="What ran">28 test files importing a changed module</td><td data-l="Result">953 passed, 31 skipped; main&#x27;s 25 files: 810 passed, 30 skipped.</td></tr><tr><td class="k">Windows 11</td><td data-l="What ran">The same 28 files</td><td data-l="Result">925 passed, 64 skipped, with the engine built for this tree; main&#x27;s: 807 passed, 38 skipped.</td></tr><tr><td class="k">Linux x64</td><td data-l="What ran">Each line of the review&#x27;s answer taken out, 11 runs</td><td data-l="Result">With nothing changed the cases pass; each of the 8 changes fails its case.</td></tr></tbody></table></div></details>
 <details class="ev"><summary>Sources</summary><p>The branch and its diff against main, read on 21 November 2026; Git 2.53 and 2.56 for Git&#x27;s own answers.</p></details>
 </section>
 <footer><p>A figure we could not source is left out.</p></footer>

diff --git a/git-calls-run-no-repository-program/README.md b/git-calls-run-no-repository-program/README.md
@@ -1,6 +1,6 @@
 # Git: Rerail's own Git calls start no program a repository's config names
 
-For [pull request #978](https://github.com/neralabs/rerail/pull/978), head f1a6d791b. [report.html](report.html) is the same report as one page: download it and open it.
+For [pull request #978](https://github.com/neralabs/rerail/pull/978), head bbcdd72d8. [report.html](report.html) is the same report as one page: download it and open it.
 
 ## 1. The decision
 
@@ -12,7 +12,7 @@ For [pull request #978](https://github.com/neralabs/rerail/pull/978), head f1a6d
 
 | Size | Risk and review | Waits on | Not verified |
 |---|---|---|---|
-| 4,057 lines in 23 files: 1,645 ship, 2,412 are tests and text | Maintainer approves. It changes what Rerail's own Git calls start. | Nothing. It stands on main alone. | 4 |
+| 4,771 lines in 24 files: 1,772 ship, 2,999 are tests and text | Maintainer approves. It changes what Rerail's own Git calls start. | Nothing. It stands on main alone. | 4 |
 
 ## 2. Intent, and the gap
 
@@ -34,7 +34,7 @@ Found in November 2026 on Linux x64 and Windows 11 machines, with a stand-in pro
 
 ## 3. Where to look
 
-<img src="map.png" width="544" alt="The changed files as bars sized by changed lines, grouped by change and coloured by risk. Code to read: A, Submodules asked through the guard, medium risk, 952 lines; B, Drivers set for each call, medium risk, 693 lines. Read first: submodule-state.ts, git.ts, filter-drivers.ts. To skim: 2,374 lines of tests and 38 lines of the threat model and a release note.">
+<img src="map.png" width="544" alt="The changed files as bars sized by changed lines, grouped by change and coloured by risk. Code to read: A, Submodules asked through the guard, medium risk, 1,058 lines; B, Drivers set for each call, medium risk, 714 lines. Read first: submodule-state.ts, git.ts, filter-drivers.ts. To skim: 2,956 lines of tests and 43 lines of the threat model and a release note.">
 
 1. **Read first**, 15 min: `submodule-state.ts`: `withChangedSubmodules`, `submoduleChanged`, `worktreeIndex`. Does each diff list the submodules Git's own diff lists?
 2. **Read first**, 15 min: `git.ts`: `runGit`, `runGitWithoutBlocking`, `guardedBy`, `submoduleOpener`. Can a call that reads worktree files still start a repository's driver?
@@ -53,7 +53,7 @@ Start with the submodule rules: they follow Git's own and are where a wrong answ
 
 | Change | Check | Its limit, or why it does not hold yet |
 |---|---|---|
-| A. Submodules | users lose nothing | Layouts under eleven rule sets equal Git's own stdout byte for byte. A checkout of more than about four million files that records a submodule fails where main answered. |
+| A. Submodules | users lose nothing | Layouts under eighteen rule sets equal Git's own stdout byte for byte. A checkout of more than about four million files that records a submodule fails where main answered. |
 | B. Drivers | users lose nothing | A file under a driver only the repository defines is listed as changed when only its stat changed. |
 | B. Drivers | Windows 11: no new failure | The test files pass on Windows 11; the cases with a stand-in Git run on Linux only. |
 | A and B | CI at this head | CI runs once the branch is on GitHub. |
@@ -114,7 +114,7 @@ Start with the submodule rules: they follow Git's own and are where a wrong answ
 
 Nothing has to merge first. It meets #964 in two import lines; whichever lands second keeps both.
 
-The change is based on main at 1e80e3b04, merged in with no conflict. A trial merge with the open pull request #964 conflicts in two import lines, and whichever lands second keeps both.
+The change is based on main at 1609ac3a3, merged in with no conflict. A trial merge with the open pull request #964 conflicts in two import lines, and whichever lands second keeps both.
 
 **The shared lines and the trial merge.** A trial merge with #964 conflicts in line 3 of `integration/rerail-without-daemon.test.ts`, the `node:fs/promises` names, and line 10 of `src/engine/audit/audit-control.ts`, the imports beside `../git.js`. No other open pull request of ours touches these files.
 
@@ -149,9 +149,9 @@ The description on GitHub is the record: "How you tested it" holds the failing r
 |---|---|---|
 | Linux x64 | The five calls, at main and here | All five fail at main and pass here. |
 | Windows 11 | The five calls, at main and here | All five fail at main and pass here. |
-| Linux x64 | 29 test files importing a changed module | 1,216 passed, 31 skipped; main's 37 files passed. |
-| Windows 11 | The same 40 files | 1,184 passed, 65 skipped, 3 failed beside other runs and passed run again at main and here, with the engine built for this tree. |
-| Linux x64 | Each new line changed, 19 runs | With nothing changed the files pass; each of the 18 changes fails a case. |
+| Linux x64 | 28 test files importing a changed module | 953 passed, 31 skipped; main's 25 files: 810 passed, 30 skipped. |
+| Windows 11 | The same 28 files | 925 passed, 64 skipped, with the engine built for this tree; main's: 807 passed, 38 skipped. |
+| Linux x64 | Each line of the review's answer taken out, 11 runs | With nothing changed the cases pass; each of the 8 changes fails its case. |
 
 **Sources.** The branch and its diff against main, read on 21 November 2026; Git 2.53 and 2.56 for Git's own answers.
 
